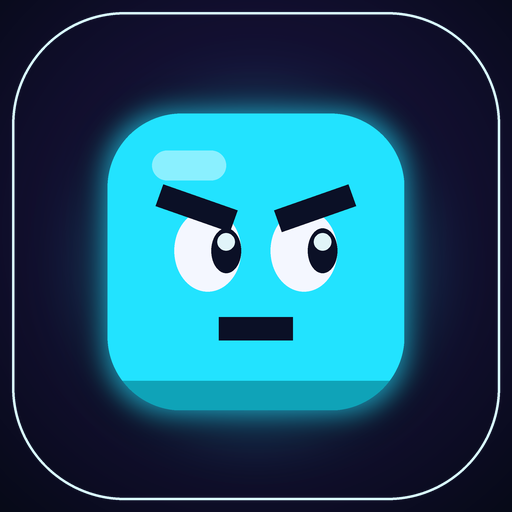
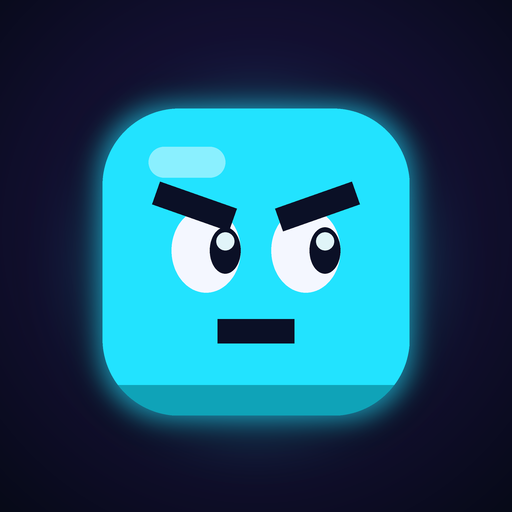
Fix icon_512: make full bleed 100% opaque per Google Play design specification

diff --git a/tool/generate_store_art.py b/tool/generate_store_art.py
@@ -44,7 +44,7 @@ def get_font(size: int, bold: bool = True):
 
 
 def create_radial_gradient(width: int, height: int, c_center, c_outer, cx_ratio=0.5, cy_ratio=0.5):
-    img = Image.new("RGBA", (width, height), (0, 0, 0, 0))
+    img = Image.new("RGBA", (width, height), (c_outer[0], c_outer[1], c_outer[2], 255))
     draw = ImageDraw.Draw(img)
     cx = width * cx_ratio
     cy = height * cy_ratio
@@ -180,9 +180,9 @@ def render_icon_512() -> Image.Image:
     """Renders 512x512 Play Store app icon using 4x supersampling (2048x2048)."""
     scale = 4
     dim = 512 * scale
-    canvas = Image.new("RGBA", (dim, dim), (0, 0, 0, 0))
+    canvas = Image.new("RGBA", (dim, dim), (BG_DARK[0], BG_DARK[1], BG_DARK[2], 255))
 
-    # 1. Background gradient: Deep space purple to dark navy
+    # 1. Background gradient: Deep space purple to dark navy, full bleed
     bg = create_radial_gradient(dim, dim, (32, 22, 78), BG_DARK, cx_ratio=0.5, cy_ratio=0.45)
     canvas.paste(bg, (0, 0))
 
@@ -199,7 +199,7 @@ def render_icon_512() -> Image.Image:
     canvas.alpha_composite(ambient_glow)
 
     # 3. Zap character
-    zap_size = int(dim * 0.58)
+    zap_size = int(dim * 0.60)
     zap_x = (dim - zap_size) // 2
     zap_y = (dim - zap_size) // 2 + int(6 * scale)
 
@@ -218,17 +218,7 @@ def render_icon_512() -> Image.Image:
     zap_sprite = render_zap_sprite(zap_size)
     canvas.alpha_composite(zap_sprite, (zap_x, zap_y))
 
-    # 4. Sleek modern neon edge border (Google squircle style)
-    draw = ImageDraw.Draw(canvas)
-    border_r = int(dim * 0.22)
-    draw.rounded_rectangle(
-        [12 * scale, 12 * scale, dim - 12 * scale, dim - 12 * scale],
-        radius=border_r,
-        outline=(34, 227, 255, 45),
-        width=int(2.5 * scale)
-    )
-
-    # Downsample cleanly with Lanczos
+    # Downsample cleanly with Lanczos to 512x512
     return canvas.resize((512, 512), Image.Resampling.LANCZOS)
 
 
